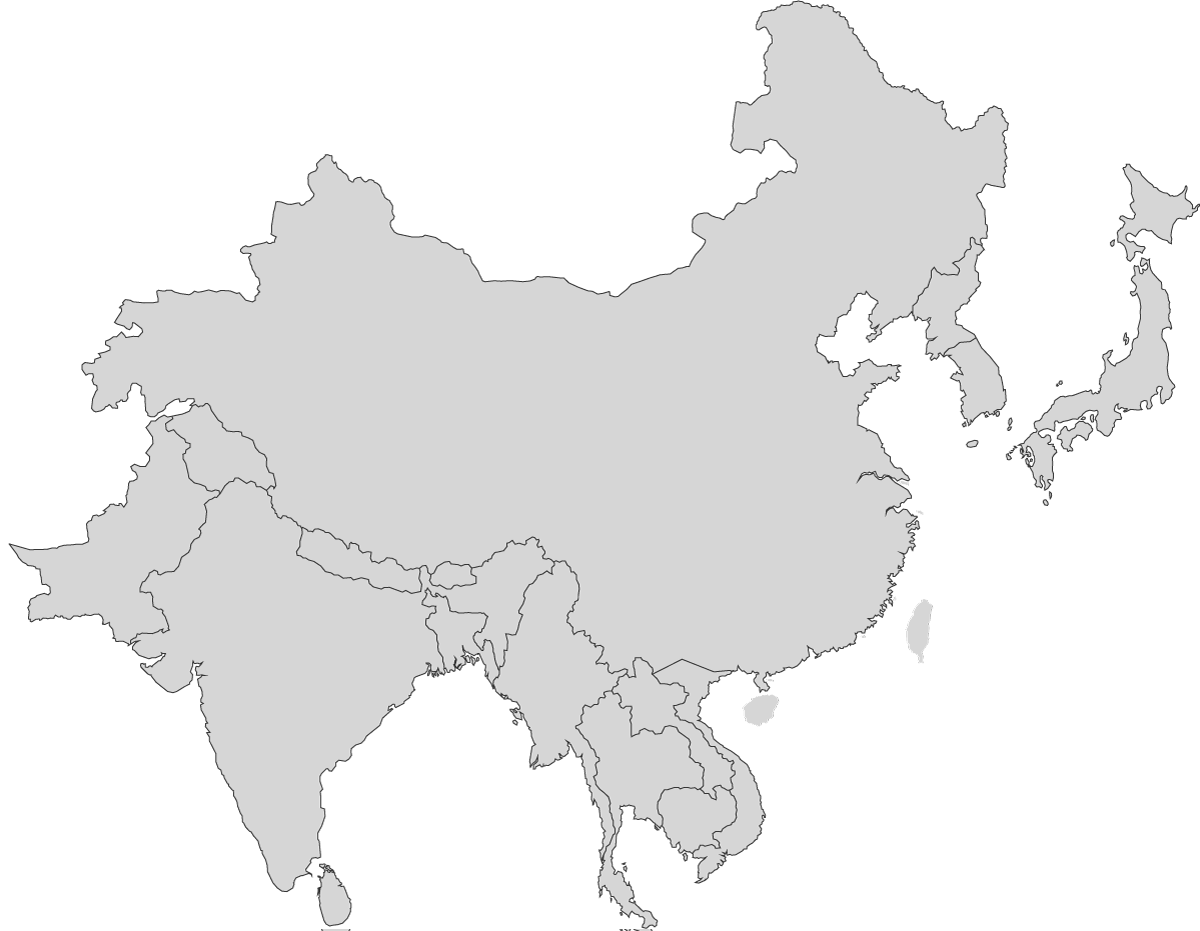
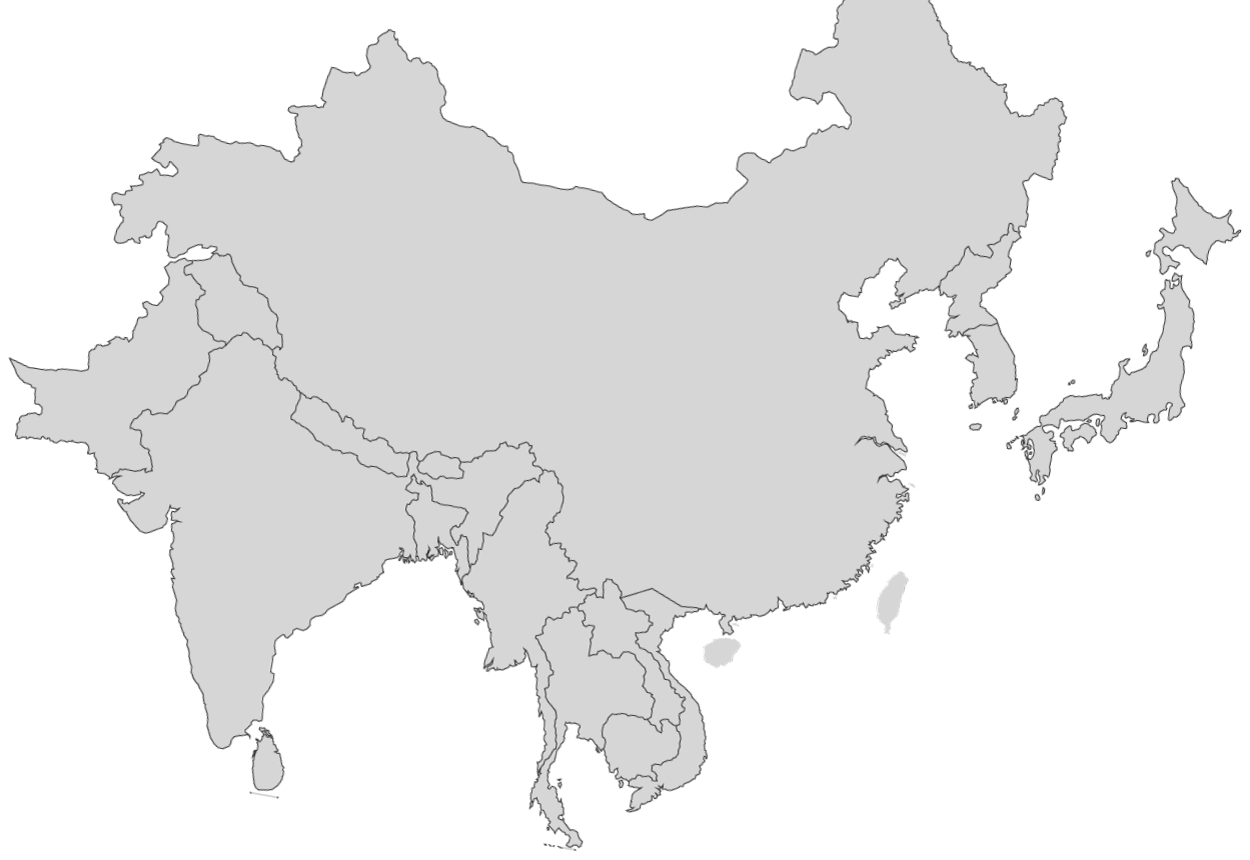
map,html 수정중

diff --git a/map.html b/map.html
@@ -1,62 +1,178 @@
 <!DOCTYPE html>
 <html lang="en">
+
 <head>
   <meta charset="UTF-8">
   <meta http-equiv="X-UA-Compatible" content="IE=edge">
   <meta name="viewport" content="width=device-width, initial-scale=1.0">
   <title>삼성디스플레이 | 사업장정보</title>
+  <!-- <link rel="stylesheet" href="//code.jquery.com/ui/1.13.2/themes/base/jquery-ui.css"> -->
+  <link rel="stylesheet" href="/resources/demos/style.css">
+  <script src="https://code.jquery.com/jquery-3.6.0.js"></script>
+  <script src="https://code.jquery.com/ui/1.13.2/jquery-ui.js"></script>
   <link rel="stylesheet" href="/css/reset.css">
   <link rel="stylesheet" href="/css/common.css">
+  <script>
+    $(function () {
+      $("#tabs").tabs();
+    });
+  </script>
 </head>
-  <style>
-    body{
-      background: var(--main-bg);
-      color:var(--text)
-    }
-    header {
-      height: 80px;
-      background: var(--main-bg);
-    }
-    .container {
-      width: 1340px;
-      margin:0 auto;
-      text-align: center;
-    }
-    .map_title {
-      font-family: samsungOne_700;
-    }
-    .map_01 {
-      text-align: center;
-      position: relative;
-      background: transparent;
-      width: 100%;
-      height: 890px;
-    }
-    .map_01::before {
-      position: absolute;
-      content: '';
-      z-index: -1;
-      top: -178.12px; bottom: 0;left: 0;right: 0;
-      background: url(img/map_history/map_01.png) no-repeat;
-      transform: rotate(10deg);
-      background-position: center;
-    }
+<style>
+  a {
+    color: var(--text);
+  }
 
+  body {
+    background: var(--main-bg);
+    color: var(--text)
+  }
 
+  header {
+    height: 80px;
+    background: var(--main-bg);
+    border-bottom: 1px solid #fff;
+  }
 
-    .map_submenu {
-      background: var(--sub-bg1);
-      line-height: 80px;
-    }
+  .container {
+    width: 1340px;
+    margin: 0 auto;
+    text-align: center;
+  }
 
-  </style>
+  .map_title {
+    margin-top: 54px;
+    font-family: samsungOne_700;
+  }
+
+  .map_01,
+  .map_02 {
+    text-align: center;
+    position: relative;
+    background: transparent;
+    height: 890px;
+    width: 100%;
+    overflow: hidden;
+  }
+
+  .map_01::before {
+    position: absolute;
+    content: '';
+    z-index: -1;
+    top: 0;
+    bottom: 0;
+    left: 0;
+    right: 0;
+    background: url(img/map_history/map_01.png) no-repeat;
+    background-position: top;
+  }
+
+  .map_02::before {
+    position: absolute;
+    content: '';
+    z-index: -1;
+    top: 108px;
+    bottom: 0;
+    left: 0;
+    right: 0;
+    background: url(img/map_history/map_02.png) no-repeat;
+    background-position: top;
+  }
+
+  .map_submenu {
+    background: var(--sub-bg1);
+    line-height: 80px;
+    font-family: "samsungOne_400";
+    gap: 210px;
+    position: fixed;
+    z-index: 1;
+    bottom: 0;
+    left: 0;
+    right: 0;
+  }
+
+  .map_01_list {
+
+  }
+  .map_01_list_item {
+    width: 320px;
+    height: 162px;
+    padding: 27px 0;
+  }
+</style>
+
 <body>
   <header>logo</header>
-  <div>
-    <div class="container map_01">
+  <div id="tabs">
+    <ul class="d-flex jcc ft32 map_submenu">
+      <li><a href="#tabs-1">국내외 사업장</a></li>
+      <li><a href="#tabs-2">글로벌 네트워크</a></li>
+      <li><a href="#tabs-3">연구소</a></li>
+    </ul>
+    <div id="tabs-1" class="container map_01">
       <h2 class="map_title ft32">사업장정보</h2>
-      <div></div>
-      <div class="map_01_list">
+      <ul class="map_01_list d-flex">
+        <li>
+          <div class="map_01_list_item">
+            <h3>기흥캠퍼스(본사)</h3>
+            <span>+82 31 5181 1114</span>
+            <span>경기도 용인시 기흥구 삼성로 1</span>
+          </div>
+        </li>
+        <li>
+          <div class="map_01_list_item">
+            <h3>아산1캠퍼스</h3>
+            <span>+82 41 535 1114</span>
+            <span>충청남도 아산시 탕정면 삼성로 181</span>
+          </div>
+        </li>
+        <li>
+          <div class="map_01_list_item">
+            <h3>아산2캠퍼스</h3>
+            <span>+82 41 623 1114</span>
+            <span>충청남도 아산시 탕정면 삼성로 181</span>
+          </div>
+        </li>
+        <li>
+          <div class="map_01_list_item">
+            <h3>천안캠퍼스</h3>
+            <span>+82 41 599 1114</span>
+            <span>경기도 용인시 기흥구 삼성로 1</span>
+          </div>
+        </li>
+        <li>
+          <div class="map_01_list_item">
+            <h3>천진(SDT)</h3>
+            <span>+86 22 2380 8100</span>
+            <span>No. 25, MipFouch Road, Xiqing District, Tianjin, China</span>
+          </div>
+        </li>
+        <li>
+          <div class="map_01_list_item">
+            <h3>동관(SDD)</h3>
+            <span>+86 769 8290 1608</span>
+            <span>High Tech Industrial Zone, Houjie, Dongguan, Guangdong, China</span>
+          </div>
+        </li>
+        <li>
+          <div class="map_01_list_item">
+            <h3>박닌(SDV)</h3>
+            <span>+84 24 1390 5021</span>
+            <span>Yen Phong Industrial Zone, Yen Trung Communes, Yen Phong District, Bac Ninh Province, Vietnam</span>
+          </div>
+        </li>
+        <li>
+          <div class="map_01_list_item">
+            <h3>노이다(SDN)</h3>
+            <span>+91 120 6275500</span>
+            <span>B-1D, Sector-81, Phase II, Noida PIN No. 201305, (U.P) India</span>
+          </div>
+        </li>
+      </ul>
+    </div>
+    <div id="tabs-2" class="container map_02">
+      <h2 class="map_title ft32">사업장정보2</h2>
+      <div class="map_02_list">
         <ul>
           <li>
             <div>
@@ -66,13 +182,19 @@
         </ul>
       </div>
     </div>
-    <div class="map_submenu">
-      <ul class="d-flex">
-        <li><a href="">국내외 사업장</a></li>
-        <li><a href="">글로벌 네트워크</a></li>
-        <li><a href="">연구소</a></li>
-      </ul>
+    <div id="tabs-3" class="container map_02">
+      <h2 class="map_title ft32">사업장정보3</h2>
+      <div class="map_03_list">
+        <ul>
+          <li>
+            <div>
+              <h3></h3>
+            </div>
+          </li>
+        </ul>
+      </div>
     </div>
   </div>
 </body>
+
 </html>
